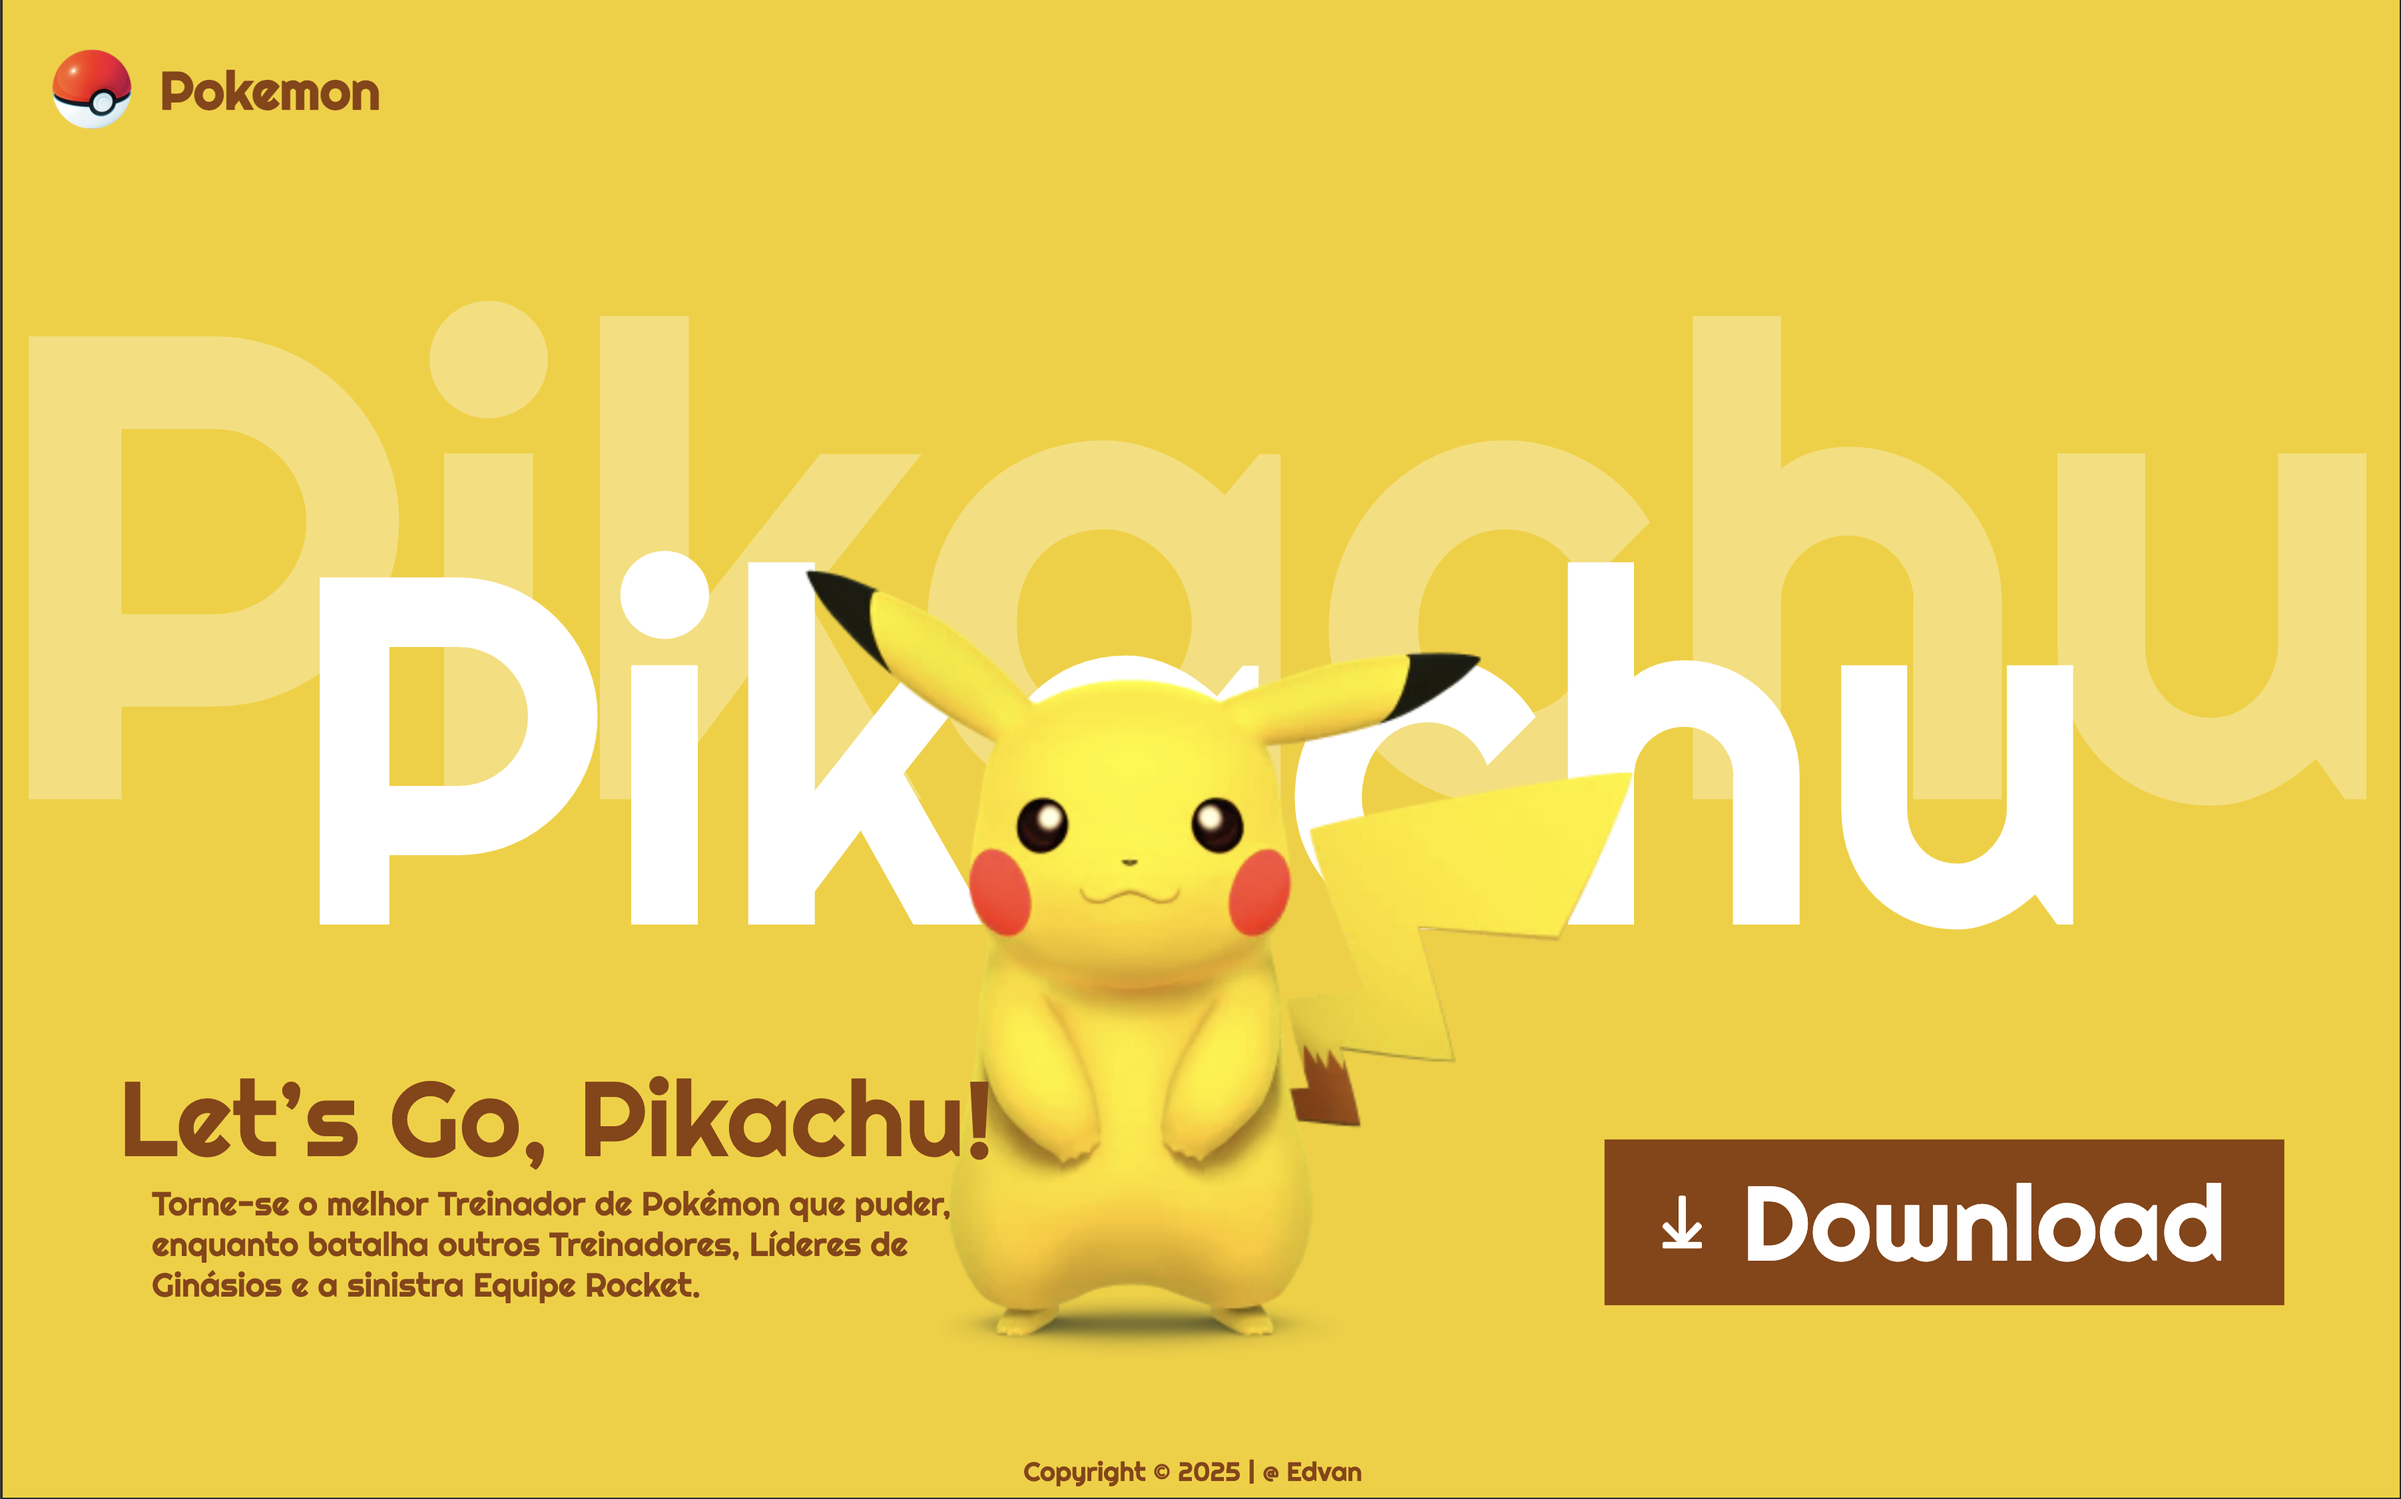
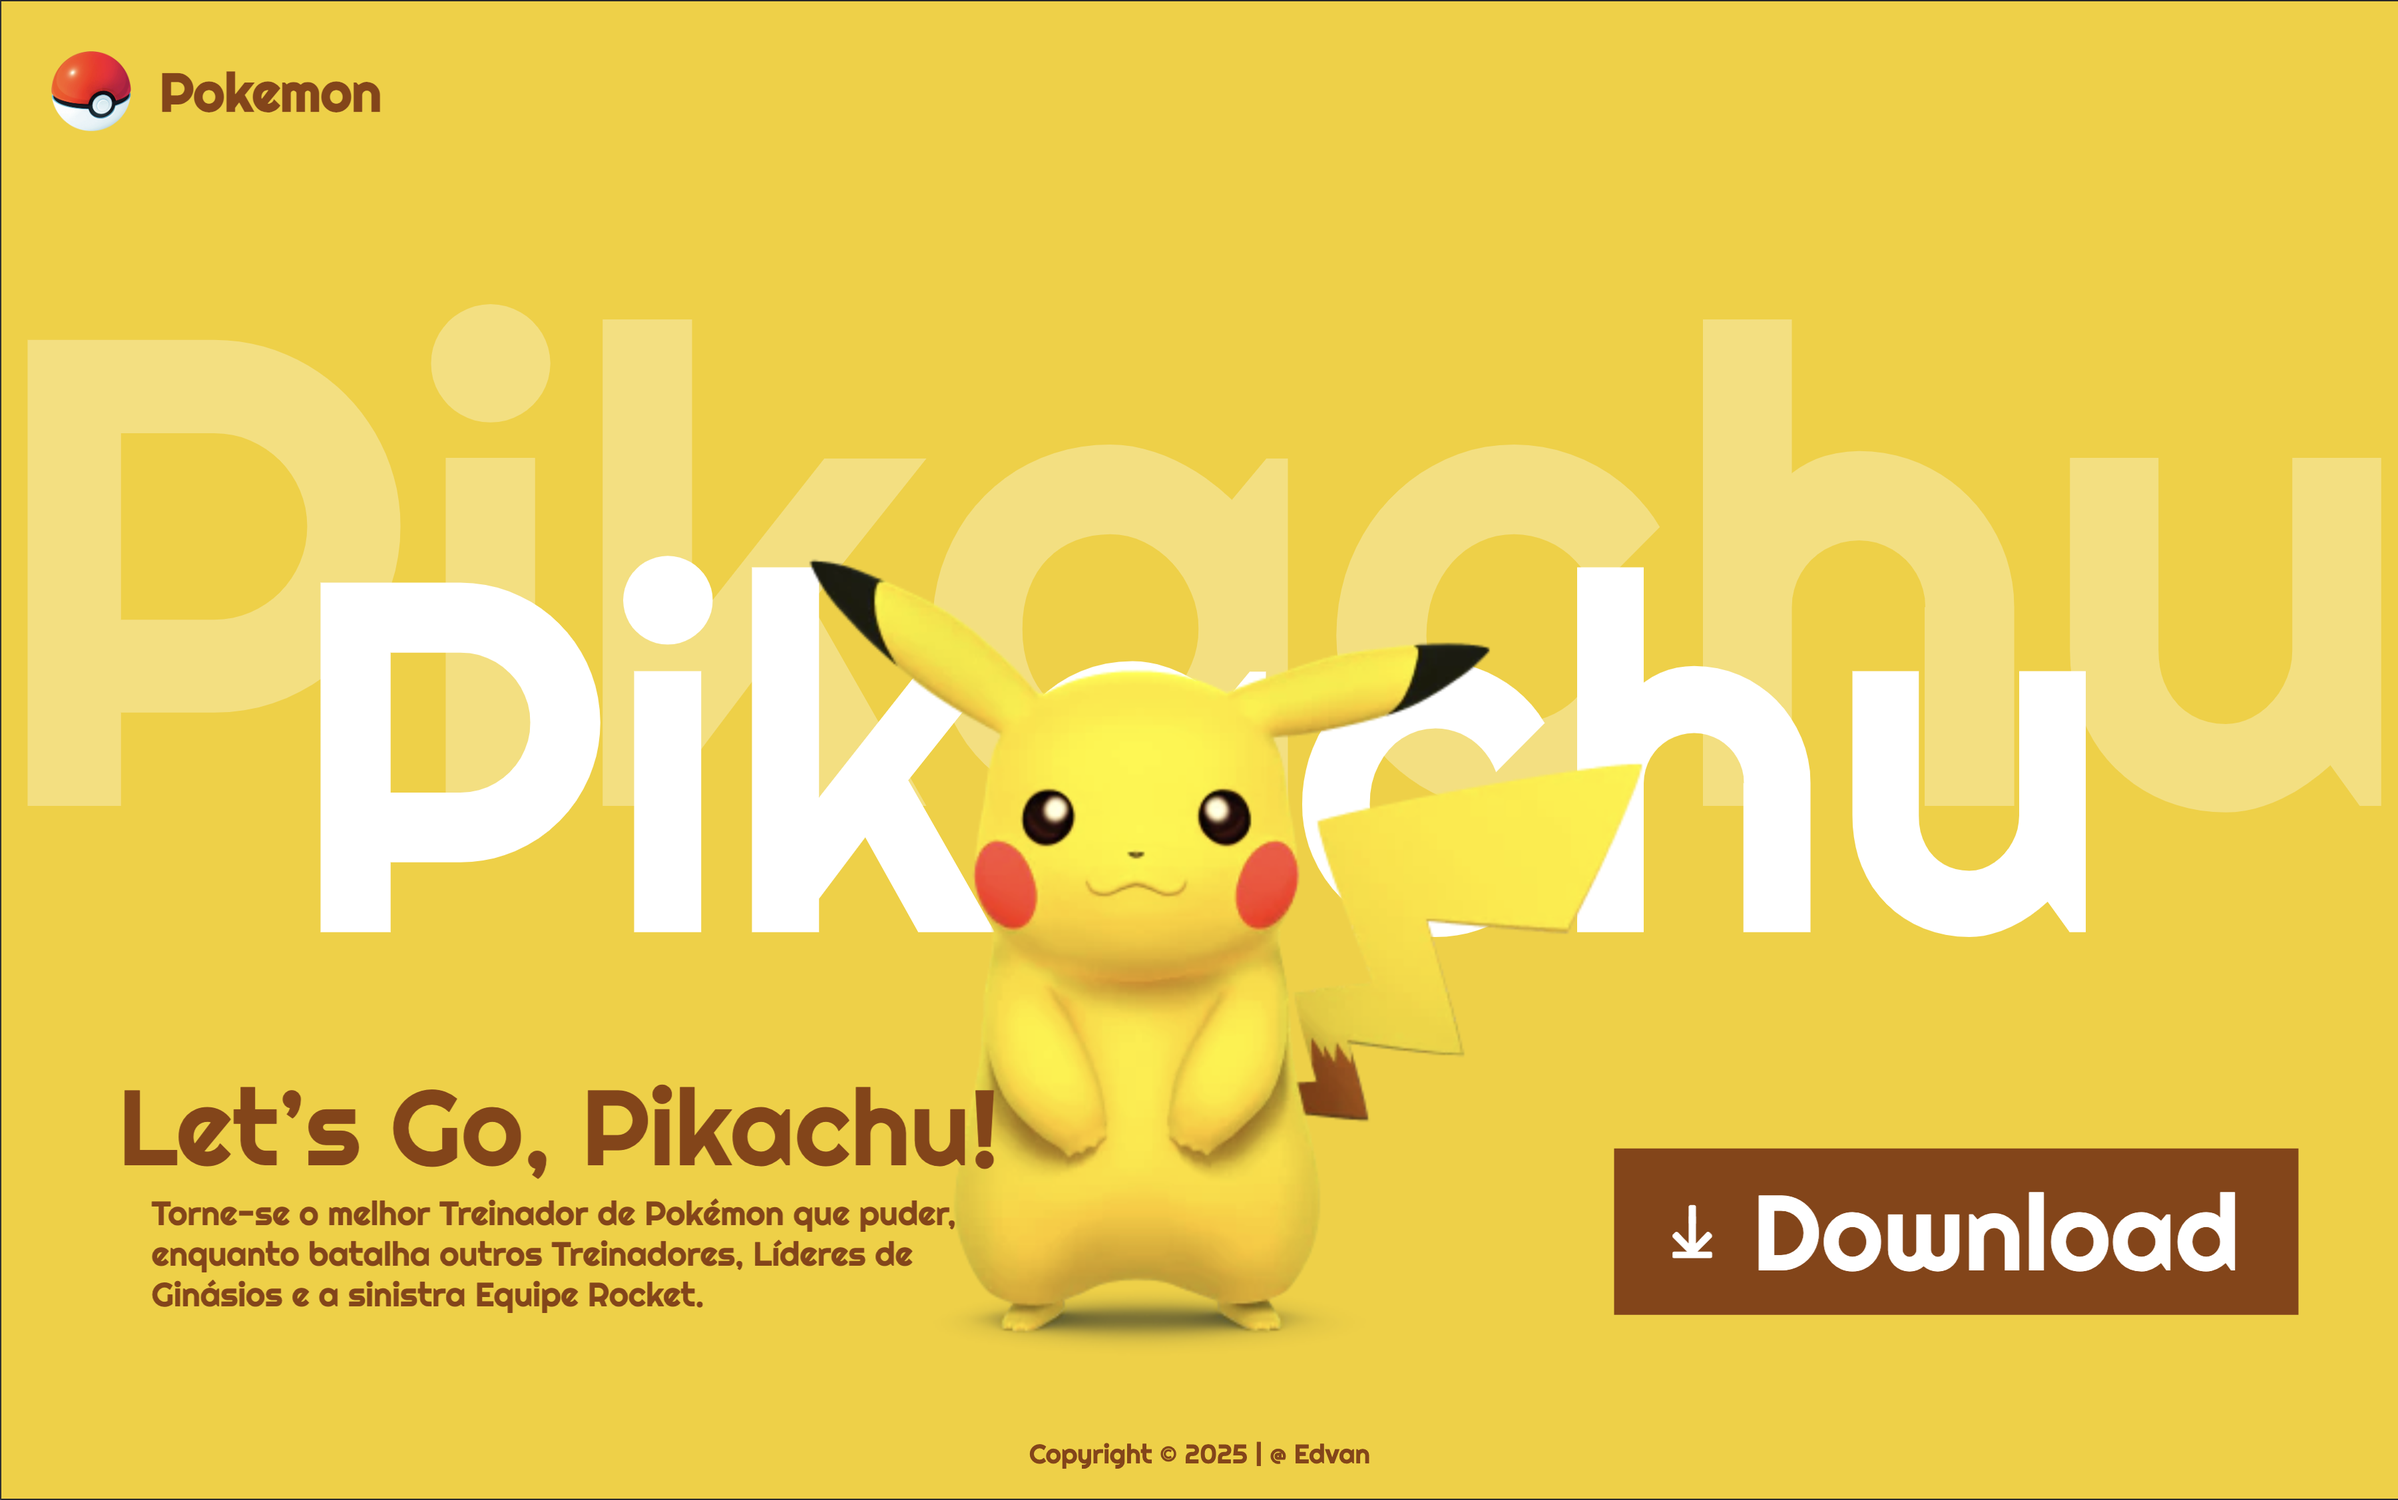
Ajustado espaçamento texto do rodapé

diff --git a/style.css b/style.css
@@ -258,7 +258,8 @@ footer{
 
     footer span{
         font-size: 16px;
-        margin-top: 23px;
+        margin-top: 1.5rem;
+        margin-bottom:1.5rem;
         color: var(--secondary-color);
     }
 
